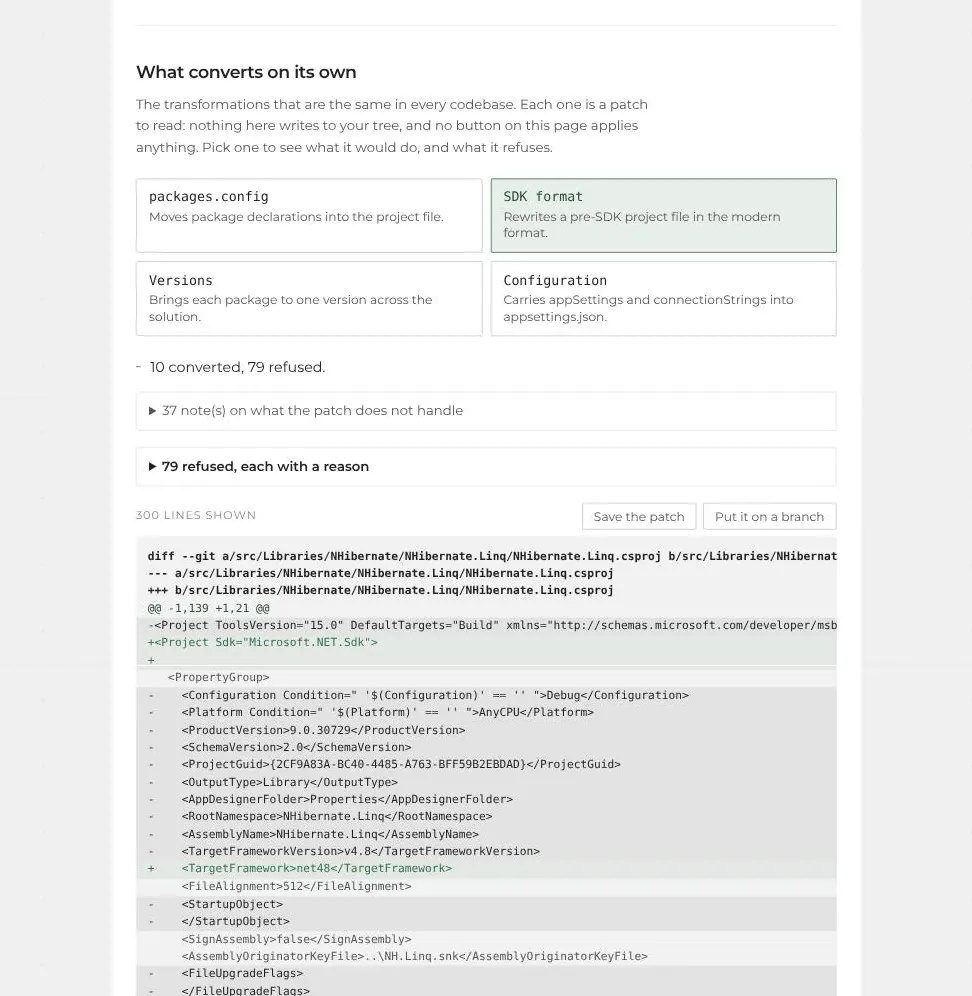
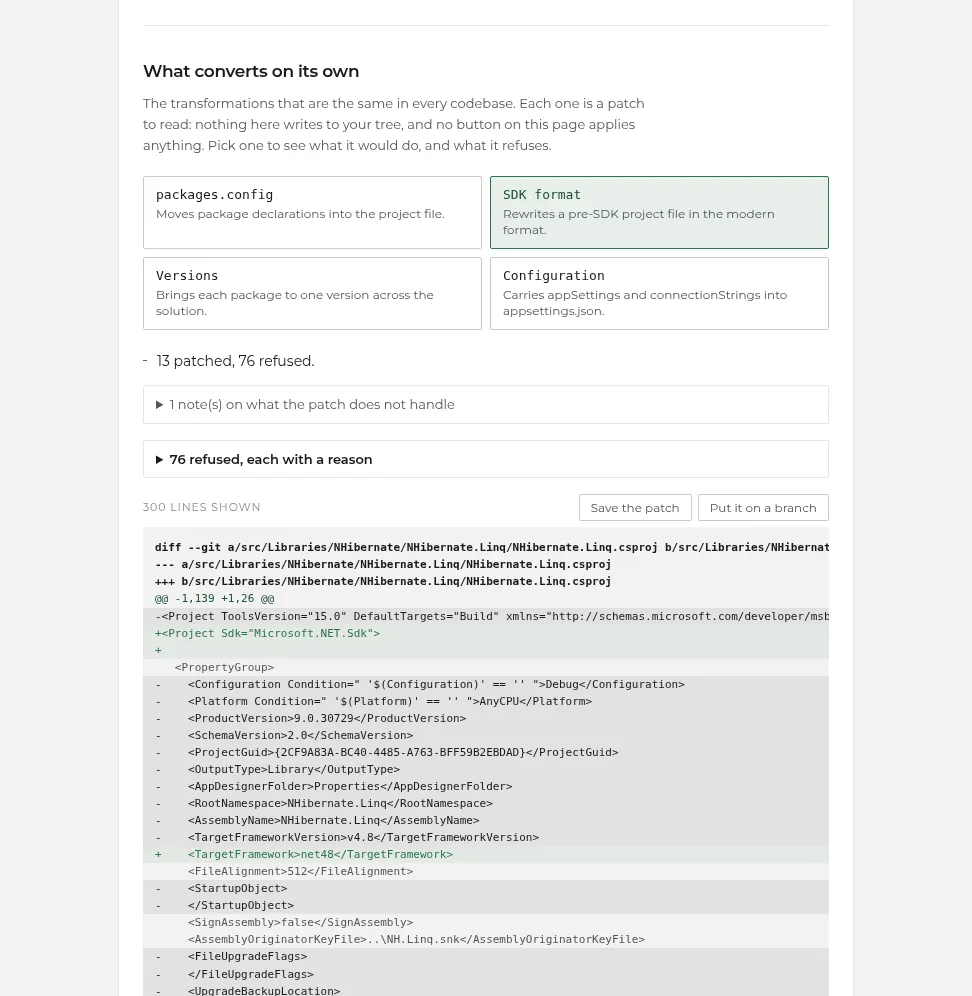
Retake the SDK conversion on Orchard, since its figures have moved
The old picture said 10 converted and 79 refused. The tool today patches 13
of Orchard's 89 project files and refuses 76, so the picture and its
description in three languages now say that.

diff --git a/site/de/index.html b/site/de/index.html
@@ -93,7 +93,7 @@
       </ul>
       <p class="caveat">Noch nicht bewiesen: Die konvertierten Anwendungen wurden gebaut, nicht ausgeführt. Ob sie starten und eine Seite ausliefern, ist eine eigene Messung.</p>
       <figure>
-        <img src="../assets/conversions.webp" width="972" height="996" alt="Die Konvertierung ins SDK-Format im Browser: zehn Projekte konvertiert, neunundsiebzig mit Begründung abgelehnt, und der Patch als Diff" loading="lazy">
+        <img src="../assets/conversions.webp" width="972" height="996" alt="Die Konvertierung ins SDK-Format im Browser: dreizehn Projekte konvertiert, sechsundsiebzig mit Begründung abgelehnt, und der Patch als Diff" loading="lazy">
         <figcaption>Die Konvertierung ins SDK-Format auf Orchard: was sich konvertieren lässt, was abgelehnt wird und warum, und der Patch.</figcaption>
       </figure>
     </div>

diff --git a/site/fr/index.html b/site/fr/index.html
@@ -93,7 +93,7 @@
       </ul>
       <p class="caveat">Pas encore prouvé : les applications converties ont été compilées, pas exécutées. Savoir si elles démarrent et servent une page est une autre mesure.</p>
       <figure>
-        <img src="../assets/conversions.webp" width="972" height="996" alt="La conversion au format SDK dans le navigateur : dix projets convertis, soixante-dix-neuf refusés avec leur raison, et le patch en diff" loading="lazy">
+        <img src="../assets/conversions.webp" width="972" height="996" alt="La conversion au format SDK dans le navigateur : treize projets convertis, soixante-seize refusés avec leur raison, et le patch en diff" loading="lazy">
         <figcaption>La conversion au format SDK sur Orchard : ce qui se convertit, ce qui est refusé et pourquoi, et le patch.</figcaption>
       </figure>
     </div>

diff --git a/site/index.html b/site/index.html
@@ -93,7 +93,7 @@
       </ul>
       <p class="caveat">Not proven yet: the converted applications have been built, not run. Whether they start and serve a page is a separate measurement.</p>
       <figure>
-        <img src="assets/conversions.webp" width="972" height="996" alt="The SDK conversion in the browser: ten projects converted, seventy-nine refused with reasons, and the patch as a diff" loading="lazy">
+        <img src="assets/conversions.webp" width="972" height="996" alt="The SDK conversion in the browser: thirteen projects converted, seventy-six refused with reasons, and the patch as a diff" loading="lazy">
         <figcaption>The SDK format conversion on Orchard: what converts, what is refused and why, and the patch.</figcaption>
       </figure>
     </div>
